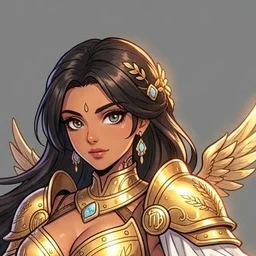
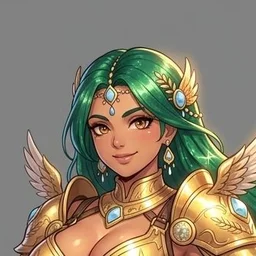
Images gacha terminées : 24 chevaliers d'or, 16 d'argent et de bronze, 20 armures sans casque ; physiques variés, roux aux taches de rousseur, cheveux colorés de manga

diff --git a/src/art/character.js b/src/art/character.js
@@ -13,6 +13,8 @@ export const METALS={
  garde:['#e2cda8','#a3845e','#614b31','#2b2116'],crimson:['#ffab98','#c2301f','#5c0b06','#200302'],steel:['#eef2f6','#97a3b2','#4c5664','#1c222a'],
  violet:['#f3dcff','#a362d2','#4d2172','#1c0a2c'],jade:['#dcffe9','#52b47d','#1f5b3b','#0a2416'],dark:['#b9b0c4','#5b5368','#2a2532','#100d14']
 };
+// Couleurs de cheveux « manga » possibles.
+const FANCY=[['vert','#3f9a5a'],['vert','#2f8f7a'],['bleu','#3d6fd0'],['bleu','#5aa6e0'],['violet','#7a4ec2'],['rose','#e07aa8'],['argent','#cfd6e0'],['rouge','#c8323a']];
 const EL={feu:{cloth:'#b3302a',gem:'#ff5a3a'},eau:{cloth:'#2b5bb2',gem:'#4fb6ff'},air:{cloth:'#dfe7f2',gem:'#c8ecff'},terre:{cloth:'#4b6b33',gem:'#62d884'}};
 const GOLD_MOTIF=['curl','horns','twin','crescent','mane','wings','scales','tail','wings','backhorns','water','fins'];
 function motifOf(c){
@@ -61,6 +63,10 @@ export function specOf(p,o={}){
  s.plain=adult&&r2()<(F?.2:.32)?.5+r2()*.5:0;
  s.scar=adult&&r2()<(p.origin==='survivant'||fac?.5:.2)?1+Math.floor(r2()*3):0;
  if(adult&&!s.tattoo&&r2()<.15)s.tattoo=true;
+ // taches de rousseur : souvent chez les roux, parfois chez les peaux claires
+ s.freckles=r2()<(L.hk==='roux'?.75:L.hk==='auburn'?.45:L.si<=1?.1:0);
+ // cheveux colorés de manga : le cosmos teinte les cheveux, surtout chez les chevaliers (demande de Seba du 2026-10-24)
+ if(!o.elder&&r2()<(rank?.22:fac?.12:.05)){const c=FANCY[Math.floor(r2()*FANCY.length)];s.hair=c[1];s.hairKey=c[0];}
  if(fac){s.hood=fac.hood&&r()<.7?fac.hood:null;s.mask=!!fac.mask;s.spiky=!!fac.spiky;s.robe=!!fac.robe;s.bow=!!fac.bow;s.vine=!!fac.vine;}
  return s;
 }
@@ -111,6 +117,8 @@ function face(s,d){
  if(s.smile)h+='<path d="M'+(CX-9)+' 145 Q'+CX+' 156 '+(CX+9)+' 145 Q'+CX+' 149 '+(CX-9)+' 145Z" fill="#6a2024"/><path d="M'+(CX-7)+' 146 L'+(CX+7)+' 146" stroke="#fff" stroke-width="1.6"/>';
  else if(F)h+='<path d="M'+(CX-8)+' 146 Q'+CX+' 143.5 '+(CX+8)+' 146 Q'+CX+' 151 '+(CX-8)+' 146Z" fill="'+mix2(S,'#c0505a',.55)+'"/>';
  else h+='<path d="M'+(CX-8)+' 147 Q'+CX+' '+(s.fierce?145:149)+' '+(CX+8)+' 147" fill="none" stroke="'+dk+'" stroke-width="2" stroke-linecap="round"/>';
+ // taches de rousseur sur le nez et les pommettes
+ if(s.freckles){const fr=rng((s.seed^0x51f)>>>0);for(let i=0;i<26;i++){const sd=i%2?1:-1,x=CX+sd*(4+fr()*30),y=118+fr()*20-Math.max(0,(Math.abs(x-CX)-24))*.4;h+='<circle cx="'+f(x)+'" cy="'+f(y)+'" r="'+f(.8+fr()*.9)+'" fill="#a0562e" opacity="'+f(.35+fr()*.35)+'"/>';}}
  // visage moins gracieux : nez plus marqué, narines visibles
  if(pl)h+='<path d="M'+(CX-6)+' 136 Q'+(CX-9)+' 131 '+(CX-3)+' 129 M'+(CX+6)+' 136 Q'+(CX+9)+' 131 '+(CX+3)+' 129 M'+(CX+3)+' 112 Q'+(CX+7)+' 120 '+(CX+5)+' 128" fill="none" stroke="'+dk+'" stroke-width="1.7" stroke-linecap="round" opacity="'+f(.45+.4*pl)+'"/>';
  // cicatrices : joue ou sourcil

diff --git a/src/core/data/art-list.js b/src/core/data/art-list.js
@@ -1,2 +1,2 @@
 /* Images générées et branchées par scripts/integrate-images.mjs (ne pas modifier à la main). */
-export const PAINTED=new Set(["perso-or-balance-F","perso-or-balance-M","perso-or-belier-F","perso-or-belier-M","perso-or-cancer-M","perso-or-gemeaux-F","perso-or-lion-F","perso-or-lion-M","perso-or-sagittaire-F","perso-or-scorpion-F","perso-or-scorpion-M","perso-or-taureau-F","perso-or-taureau-M","perso-or-vierge-F","perso-or-vierge-M"]);
+export const PAINTED=new Set(["armure-argent-air","armure-argent-eau","armure-argent-feu","armure-argent-terre","armure-bronze-air","armure-bronze-eau","armure-bronze-feu","armure-bronze-terre","armure-or-balance","armure-or-belier","armure-or-cancer","armure-or-capricorne","armure-or-gemeaux","armure-or-lion","armure-or-poissons","armure-or-sagittaire","armure-or-scorpion","armure-or-taureau","armure-or-verseau","armure-or-vierge","perso-argent-air-F","perso-argent-air-M","perso-argent-eau-F","perso-argent-eau-M","perso-argent-feu-F","perso-argent-feu-M","perso-argent-terre-F","perso-argent-terre-M","perso-bronze-air-F","perso-bronze-air-M","perso-bronze-eau-F","perso-bronze-eau-M","perso-bronze-feu-F","perso-bronze-feu-M","perso-bronze-terre-F","perso-bronze-terre-M","perso-or-balance-F","perso-or-balance-M","perso-or-belier-F","perso-or-belier-M","perso-or-cancer-F","perso-or-cancer-M","perso-or-capricorne-F","perso-or-capricorne-M","perso-or-gemeaux-F","perso-or-gemeaux-M","perso-or-lion-F","perso-or-lion-M","perso-or-poissons-F","perso-or-poissons-M","perso-or-sagittaire-F","perso-or-sagittaire-M","perso-or-scorpion-F","perso-or-scorpion-M","perso-or-taureau-F","perso-or-taureau-M","perso-or-verseau-F","perso-or-verseau-M","perso-or-vierge-F","perso-or-vierge-M"]);

diff --git a/CLAUDE.md b/CLAUDE.md
@@ -47,7 +47,7 @@ Le prototype jouable actuel (v0.6) est `prototype/sanctuaire.html` : un seul fic
 - **Ne jamais reproduire** les personnages, armures ou visuels officiels de Saint Seiya. Les noms de constellations, les dieux grecs et l'univers en général sont acceptés.
 - **Exception décidée par Seba le 2026-10-24** : les 8 chevaliers d'or de sa planche (`art/personnages/`) sont gardés tels quels malgré leur ressemblance avec les armures officielles et leurs apparences uniformes (usage strictement privé). La règle s'applique toujours aux nouvelles images.
 - **Direction artistique (confirmée par Seba le 2026-10-24, après un essai en semi-réaliste)** : style anime, comme `docs/reference.jpeg`. Les planches semi-réalistes de `art/` servent de modèles pour l'architecture et les armures, et restent en jeu en attendant leur version anime. Les consignes de génération sont dans `docs/charte-graphique.md`. Le Sanctuaire intact est le but à atteindre (écran titre, vision) ; en jeu, on part des ruines. Ambiance : lumière dorée de soleil couchant, ruines grecques. Personnages avec tatouages tribaux, armures segmentées et rivetées, tenues de cuir et de tissu. Image de référence fournie par Seba, à placer dans `docs/reference.jpg`.
-- **Apparence fidèle à l'origine** : peau, cheveux et yeux selon le pays de naissance (193 pays, profils régionaux et exceptions par pays). Prénoms cohérents avec le pays ; prénoms occitans possibles pour la France, systématiques pour les Cévennes.
+- **Apparence fidèle à l'origine** : peau, cheveux et yeux selon le pays de naissance (193 pays, profils régionaux et exceptions par pays). Prénoms cohérents avec le pays ; prénoms occitans possibles pour la France, systématiques pour les Cévennes. **Exception décidée le 2026-10-24** : des cheveux colorés de manga (vert, bleu, rose, violet, argent, rouge), expliqués par le cosmos qui teinte les cheveux, chez environ 1 chevalier sur 5 et plus rarement chez les autres ; la peau, les yeux et les traits restent fidèles à l'origine. Silhouettes variées pour les adultes (poitrine, rondeurs, carrure, beauté, cicatrices, tatouages, taches de rousseur).
 
 ## Systèmes du jeu
 
